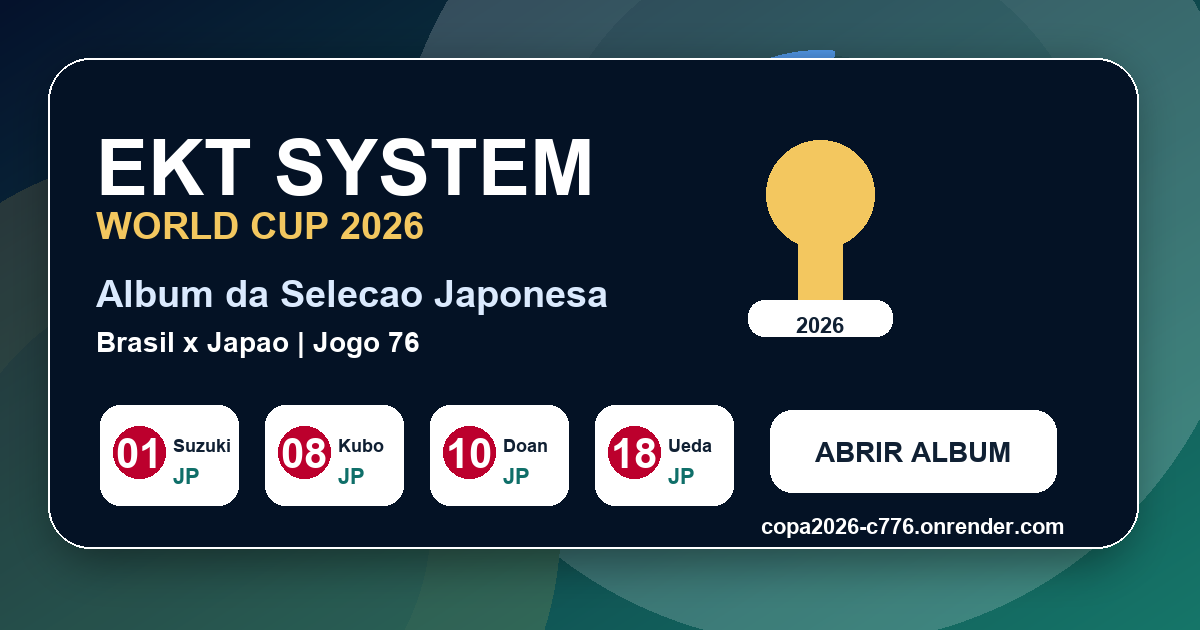
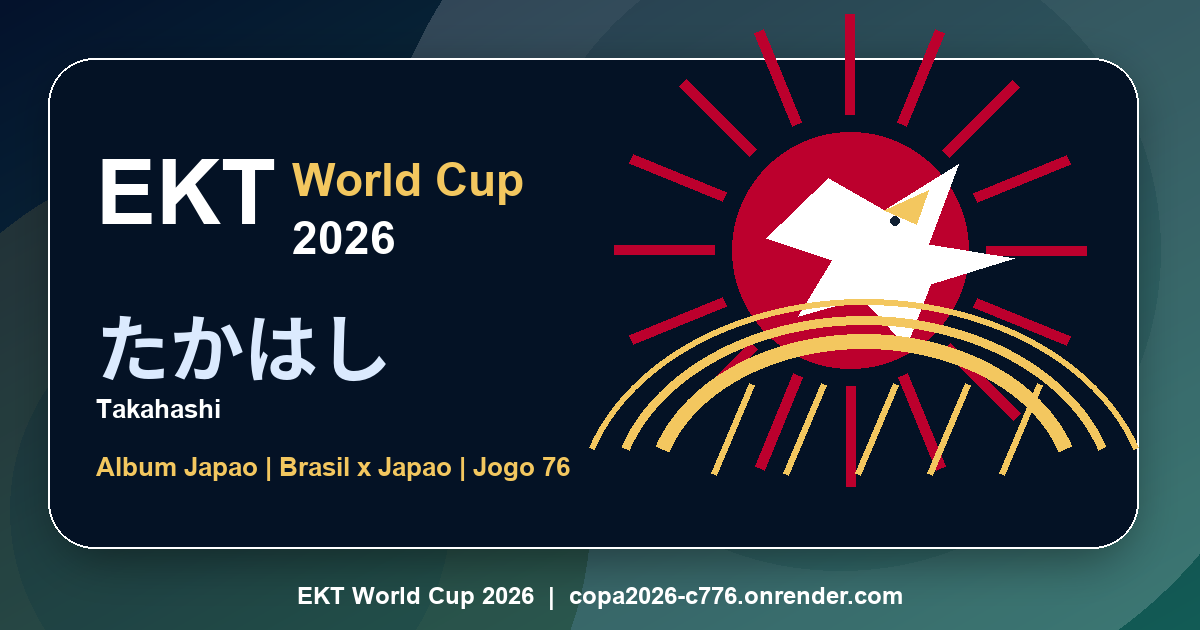
Refaz marca EKT World Cup em estilo japones

diff --git a/static/japao-album.html b/static/japao-album.html
@@ -16,8 +16,8 @@
       content="Figurinhas da selecao japonesa com fotos, nomes em japones, romaji e numeros de camisa."
     />
     <meta property="og:url" content="https://copa2026-c776.onrender.com/japao-album.html" />
-    <meta property="og:image" content="https://copa2026-c776.onrender.com/assets/japan-album/ekt-system-world-cup-2026.png?v=20260626-share" />
-    <meta property="og:image:secure_url" content="https://copa2026-c776.onrender.com/assets/japan-album/ekt-system-world-cup-2026.png?v=20260626-share" />
+    <meta property="og:image" content="https://copa2026-c776.onrender.com/assets/japan-album/ekt-system-world-cup-2026.png?v=20260626-bridge-eagle" />
+    <meta property="og:image:secure_url" content="https://copa2026-c776.onrender.com/assets/japan-album/ekt-system-world-cup-2026.png?v=20260626-bridge-eagle" />
     <meta property="og:image:type" content="image/png" />
     <meta property="og:image:width" content="1200" />
     <meta property="og:image:height" content="630" />
@@ -28,7 +28,7 @@
       name="twitter:description"
       content="Figurinhas da selecao japonesa com fotos, nomes em japones, romaji e numeros de camisa."
     />
-    <meta name="twitter:image" content="https://copa2026-c776.onrender.com/assets/japan-album/ekt-system-world-cup-2026.png?v=20260626-share" />
+    <meta name="twitter:image" content="https://copa2026-c776.onrender.com/assets/japan-album/ekt-system-world-cup-2026.png?v=20260626-bridge-eagle" />
     <link rel="canonical" href="https://copa2026-c776.onrender.com/japao-album.html" />
     <link rel="stylesheet" href="/styles.css?v=20260626-album-share" />
   </head>

diff --git a/app.py b/app.py
@@ -13,7 +13,7 @@ from urllib.parse import parse_qs, urlparse
 
 
 APP_NAME = "copa2026"
-APP_VERSION = "2026.06.26-album-share-v1"
+APP_VERSION = "2026.06.26-bridge-eagle-v1"
 BASE_DIR = Path(__file__).resolve().parent
 STATIC_DIR = BASE_DIR / "static"
 SQUAD_SOURCE_URL = "https://en.wikipedia.org/wiki/2026_FIFA_World_Cup_squads"